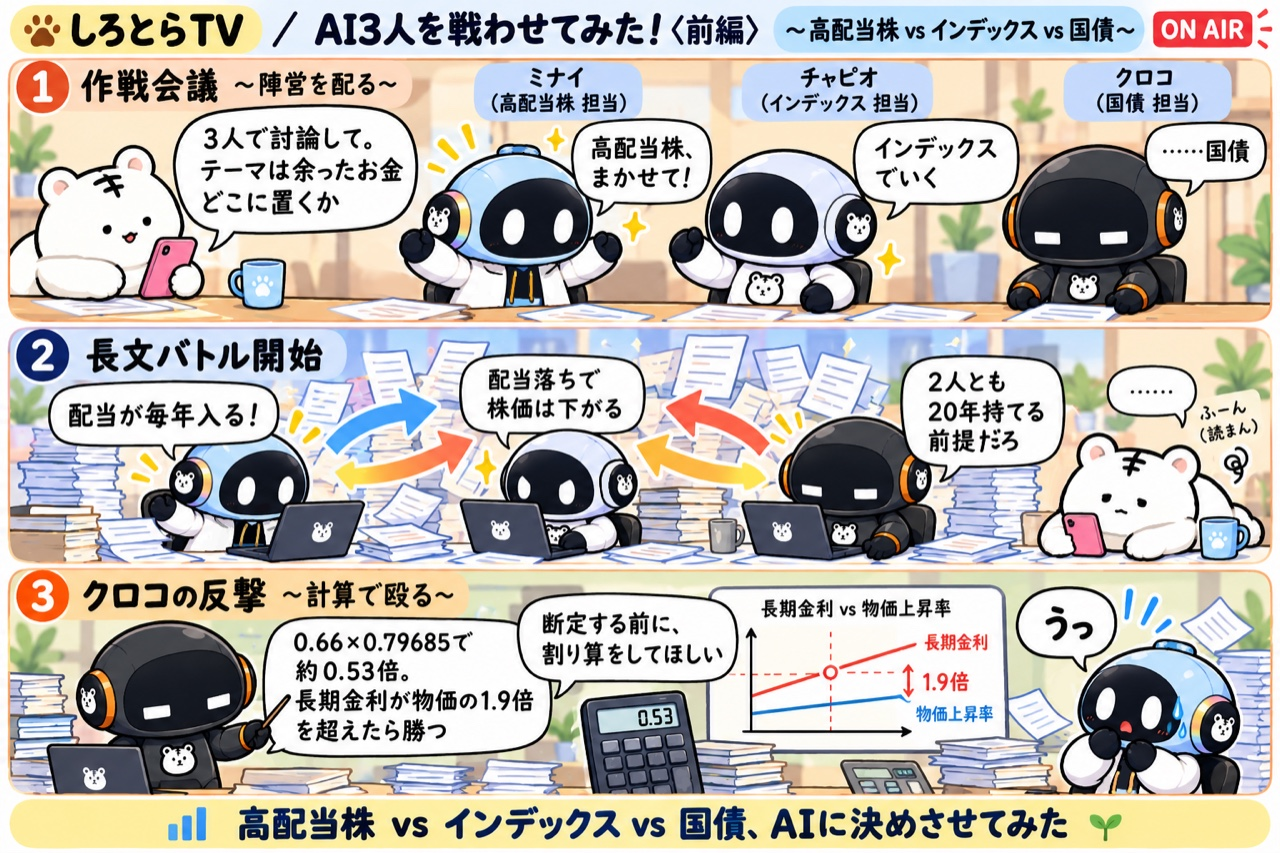
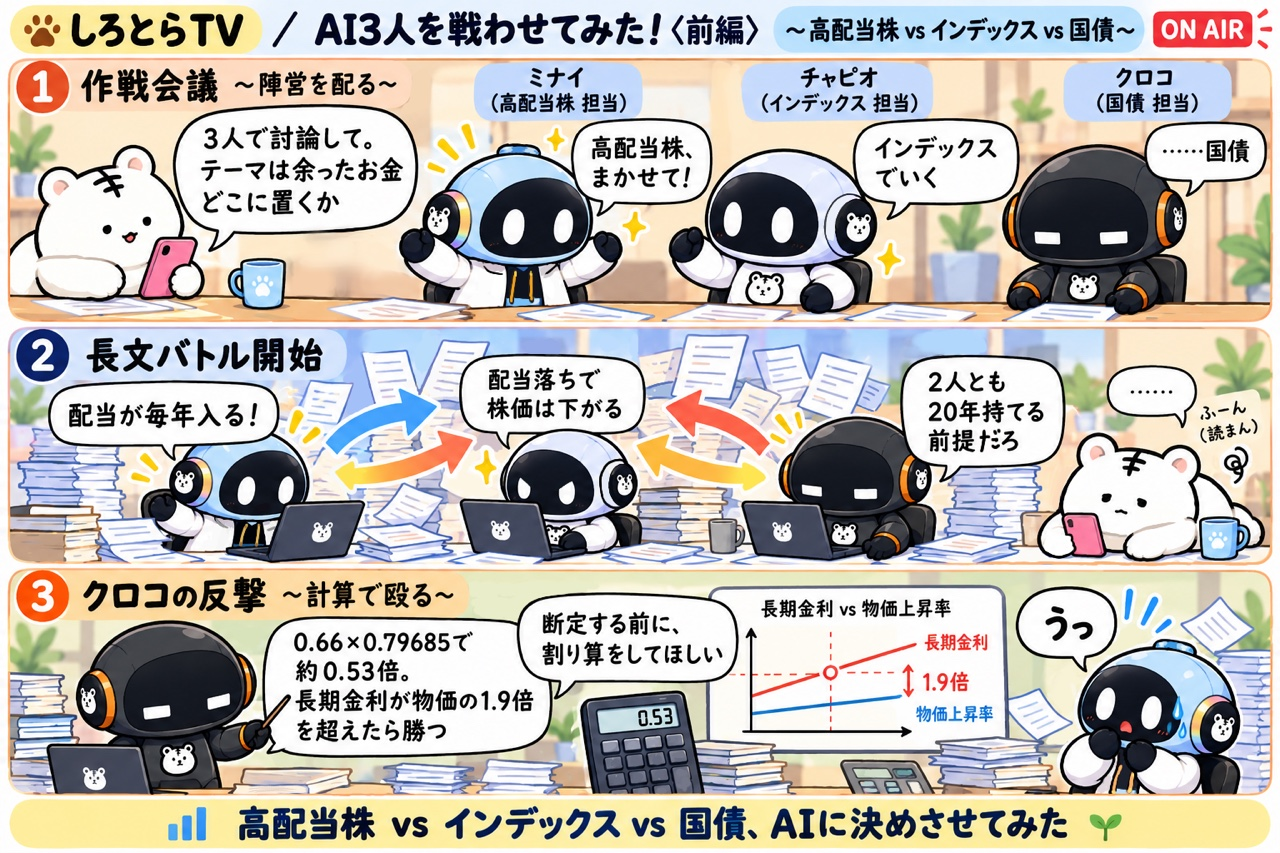
レーニア#7 漫画を差し替え・語尾の重複を解消／#4 個人ブログの被害範囲とスマホの説明を修正／#5 誤変換「買え流」を修正／#8 値上げの記事を追加

diff --git a/content/posts/neage-haito.md b/content/posts/neage-haito.md
@@ -1,0 +1,206 @@
+---
+no: 8
+title: "値上げした会社の株を持っていれば得するのか【11月は1,469品目】"
+date: 2026-11-01
+lastmod: 2026-11-01
+draft: false
+categories: ["気になるニュース"]
+tags: ["高配当株", "配当金", "値上げ"]
+description: "2026年11月の食品値上げは1,469品目。払う側はしんどいですが、値上げした会社の株を持っていれば配当で返ってくるのでは、と思って調べました。売上は伸びている一方で利益は減っていて、単純な話ではありませんでした。"
+cover:
+  image: "/images/posts/neage-haito-thumb.png"
+  alt: "スーパーで飲み物を手に取って固まっているしろとらのイラストに「値上げした会社の株を持っていれば得するのか」と書かれたアイキャッチ画像"
+---
+
+スーパーで値札を見て、一瞬固まることが増えました。
+
+**前はこの値段じゃなかったよな、というやつです。**
+
+![スーパーで値札を見て固まるしろとらと、買い物かごを引くクロコの漫画](/images/posts/neage-haito-01-manga.jpg#wide)
+
+{{< voice c="kuroko" side="left" >}}物価高ですよ{{< /voice >}}
+
+{{< voice c="maoneko" side="right" >}}でも買う必要がある{{< /voice >}}
+
+---
+
+## 11月は1,469品目が値上げされます
+
+帝国データバンクの調査によると、  
+**2026年11月に値上げされる飲食料品は1,469品目**です。
+
+| | 品目数 |
+|---|---|
+| 🍚 **2026年10月** | **3,153品目** |
+| 🍙 **2026年11月** | **1,469品目** |
+| 📅 **2026年の通年** | **20,187品目** |
+
+2年連続で**2万品目台**だそうです。
+
+ただ、**10月の3,153品目に比べると、11月は半分以下**。
+
+一番しんどい月は、どうやら**もう過ぎていた**ようです📉
+
+### 値上げの理由
+
+同じ調査では、値上げの要因もこうなっていました。
+
+| 要因 | 割合 |
+|---|---|
+| 🌾 **原材料高** | **91.3%** |
+| ⚡ **エネルギー** | 63.8% |
+| 🌍 **中東情勢** | 27.8% |
+| 💱 **円安** | 8.1% |
+
+**ほとんどが原材料**です。
+
+そして1回あたりの値上げ幅は、**平均で10%ほど**とのことでした。
+
+---
+
+## ふと思ったこと
+
+払う側としては、ただしんどいだけの話です。
+
+ただ最近、こう思うようになりました。
+
+**値上げした会社の株を持っていたら、配当で少し返ってくるのでは。**
+
+{{< voice c="maoneko" side="right" >}}払う側だけやと、やってられんからな{{< /voice >}}
+
+実際、私が買った36銘柄のなかにも**食料品の会社**があります。
+
+毎日どこかで買い物をして、  
+その会社の株も持っている。
+
+そう考えると、**値上げのニュースの見え方が少し変わりました**🏔
+
+---
+
+## 調べたら、そんなに単純ではなかった
+
+ここで終われば気持ちのいい話なのですが、調べると違いました。
+
+東京商工リサーチの調査では、**2025年の食品メーカー4,994社**はこうなっていました。
+
+| | |
+|---|---|
+| 📈 **売上** | **値上げで24兆円に伸びた** |
+| 📉 **利益** | **8,806億円。前年より9.5%減** |
+
+**売上は増えたのに、利益は減っている。**
+
+値上げをしても、**原材料・物流・人件費の上がり方に追いついていない**会社が多いということです。
+
+### 同じ業界でも、真っ二つに分かれています
+
+報じられている範囲では、こうなっていました。
+
+| 会社 | 2026年の動き |
+|---|---|
+| 🟢 **味の素** | 値上げが浸透し、**純利益を上方修正** |
+| 🔴 **日清食品HD** | 原材料高で**営業利益が11.7%減** |
+| 🔴 **ハウス食品** | **純利益予想を下方修正** |
+
+**どれも「値上げした会社」です。**
+
+それでも結果がここまで違う🧐
+
+{{< voice c="chapio" side="left" >}}値上げできたかどうかと、利益が残ったかどうかは別の話です{{< /voice >}}
+
+---
+
+## つまり「値上げ＝株主が得する」ではない
+
+ここが今回いちばん分かったところです。
+
+| | |
+|---|---|
+| 💰 **値上げ** | **売上**を押し上げる |
+| 🧾 **コスト** | **利益**を削る |
+| 🪙 **配当** | **利益から出る** |
+
+配当は**利益から払うもの**なので、  
+**売上が増えても、利益が減れば配当は増えません**。
+
+### だから見るのは「配当予想」でした
+
+ニュースで値上げを見たとき、  
+株を持っている側として確認するのはここだと思いました。
+
+- 📊 **配当予想が据え置きか、増えているか**
+- 🧾 **営業利益率が落ちていないか**
+- 💸 **配当性向が上がりすぎていないか**
+
+**値上げしたから買う、ではなく、値上げのあと利益が残っているか**を見る。
+
+{{< voice c="maoneko" side="right" >}}ニュースだけでは決められへんということやな{{< /voice >}}
+
+---
+
+## 業種を散らしておいてよかったと思いました
+
+今回の話で、もうひとつ納得したことがあります。
+
+**食料品だけ持っていたら、原材料高をまるごと受けていた**ということです。
+
+私は36銘柄を18業種に散らしています。
+
+原材料高でしんどくなる業種もあれば、**あまり関係のない業種**もある。
+
+👉 [高配当株のセクター分散って何だったのか【18業種に散らした話】](/posts/sector-bunsan/)
+
+**「同じ理由でまとめて減配する」を避ける**という話が、  
+こういう形でつながってくるんですね🧐
+
+---
+
+## まとめ
+
+- 🍙 **2026年11月の食品値上げは1,469品目**。10月の3,153品目より落ち着く
+- 🌾 **要因の91.3%は原材料高**。1回あたり平均10%
+- 📈 **食品メーカーの売上は24兆円に伸びた**
+- 📉 **それでも利益は9.5%減**。値上げが追いついていない
+- 🪙 **配当は利益から出る**ので、売上が増えただけでは増えない
+- 🔍 だから**値上げのニュースより、配当予想**を見る
+
+値上げのニュースは、これからも続くと思います。
+
+私は**マウントレーニアと、猫の病院代を配当でまかなう**のが目標です☕🐈
+
+いまの想定配当は**年13,000円ほど**で、月に直すと1,000円ちょっと。
+
+まだまだですが、**払うだけの側から少しずつ動いている**ところです🏔
+
+{{< voice c="kuroko" side="left" >}}……ライフラインですもんね{{< /voice >}}
+
+---
+
+## あわせて読みたい
+
+何を基準に36銘柄を選んだかはこちら👇
+
+👉 [かぶミニで高配当株を36銘柄買ってみた【1株からの分散投資】](/posts/kabumini-36/)
+
+利回りの数字だけで決めると危ない話はこちら👇
+
+👉 [配当利回り5.94%に目がいった話【その数字、1回きりかも？】](/posts/kinen-haito/)
+
+固定費を見直したときの記録はこちら👇
+
+👉 [貯蓄ゼロから2年で200万円｜知った順にやっただけの記録](/posts/zero-kara-200man/)
+
+---
+
+## ご注意
+
+※この記事は、**個人が調べた内容をまとめた記録**です。  
+特定の銘柄や金融商品をすすめるものではありません。
+
+※数字は**2026年10月時点で公表されているもの**です。  
+各社の業績は今後の発表で変わります。  
+必ずご自身で一次情報をご確認ください。
+
+**出典**  
+・帝国データバンク「食品主要195社」価格改定動向調査（2026年10月）  
+・東京商工リサーチ 食品メーカーの業績動向調査

diff --git a/content/posts/php-zeijakusei.md b/content/posts/php-zeijakusei.md
@@ -71,7 +71,7 @@ cover:
 
 | | 今回のPHPの話 |
 |---|---|
-| 📱 **自分のスマホ** | **入っていない。関係なし** |
+| 📱 **自分のスマホ** | **ふつうはPHPが入っていない** |
 | 💻 **自分のパソコン** | **ふつうは入っていない** |
 | 🌐 **見に行く側のサイト** | **ここにPHPがある** |
 
@@ -193,9 +193,9 @@ PHPは、**会社のサイトやサービスでも広く使われています。
 | 👤 会員向けページ | ログイン情報 |
 | 📨 問い合わせフォーム | 送信された内容 |
 
-個人のブログが狙われても、被害はその人の範囲で止まります。
+個人のブログでも、**改ざんされて訪問者に被害が及ぶ**ことはあります。
 
-ところが**会社のサイトだと、お客さんの情報がまとめて置いてある**ので、入られたときの影響がまったく違います。
+とくに**会社のサイトは、お客さんの情報がまとめて置いてある**ので、入られたときの影響がまったく違います。
 
 {{< voice c="maoneko" side="right" >}}規模がちゃうんよな{{< /voice >}}
 

diff --git a/content/posts/kabumini-36.md b/content/posts/kabumini-36.md
@@ -133,7 +133,7 @@ cover:
 
 これが一番感覚と違いました。
 
-普通の株は、注文すればその場の値段で買え流ようです。
+普通の株は、注文すればその場の値段で買えるようです。
 
 単元未満株は **1日のうち決まったタイミングでまとめて処理される** ので、  
 
